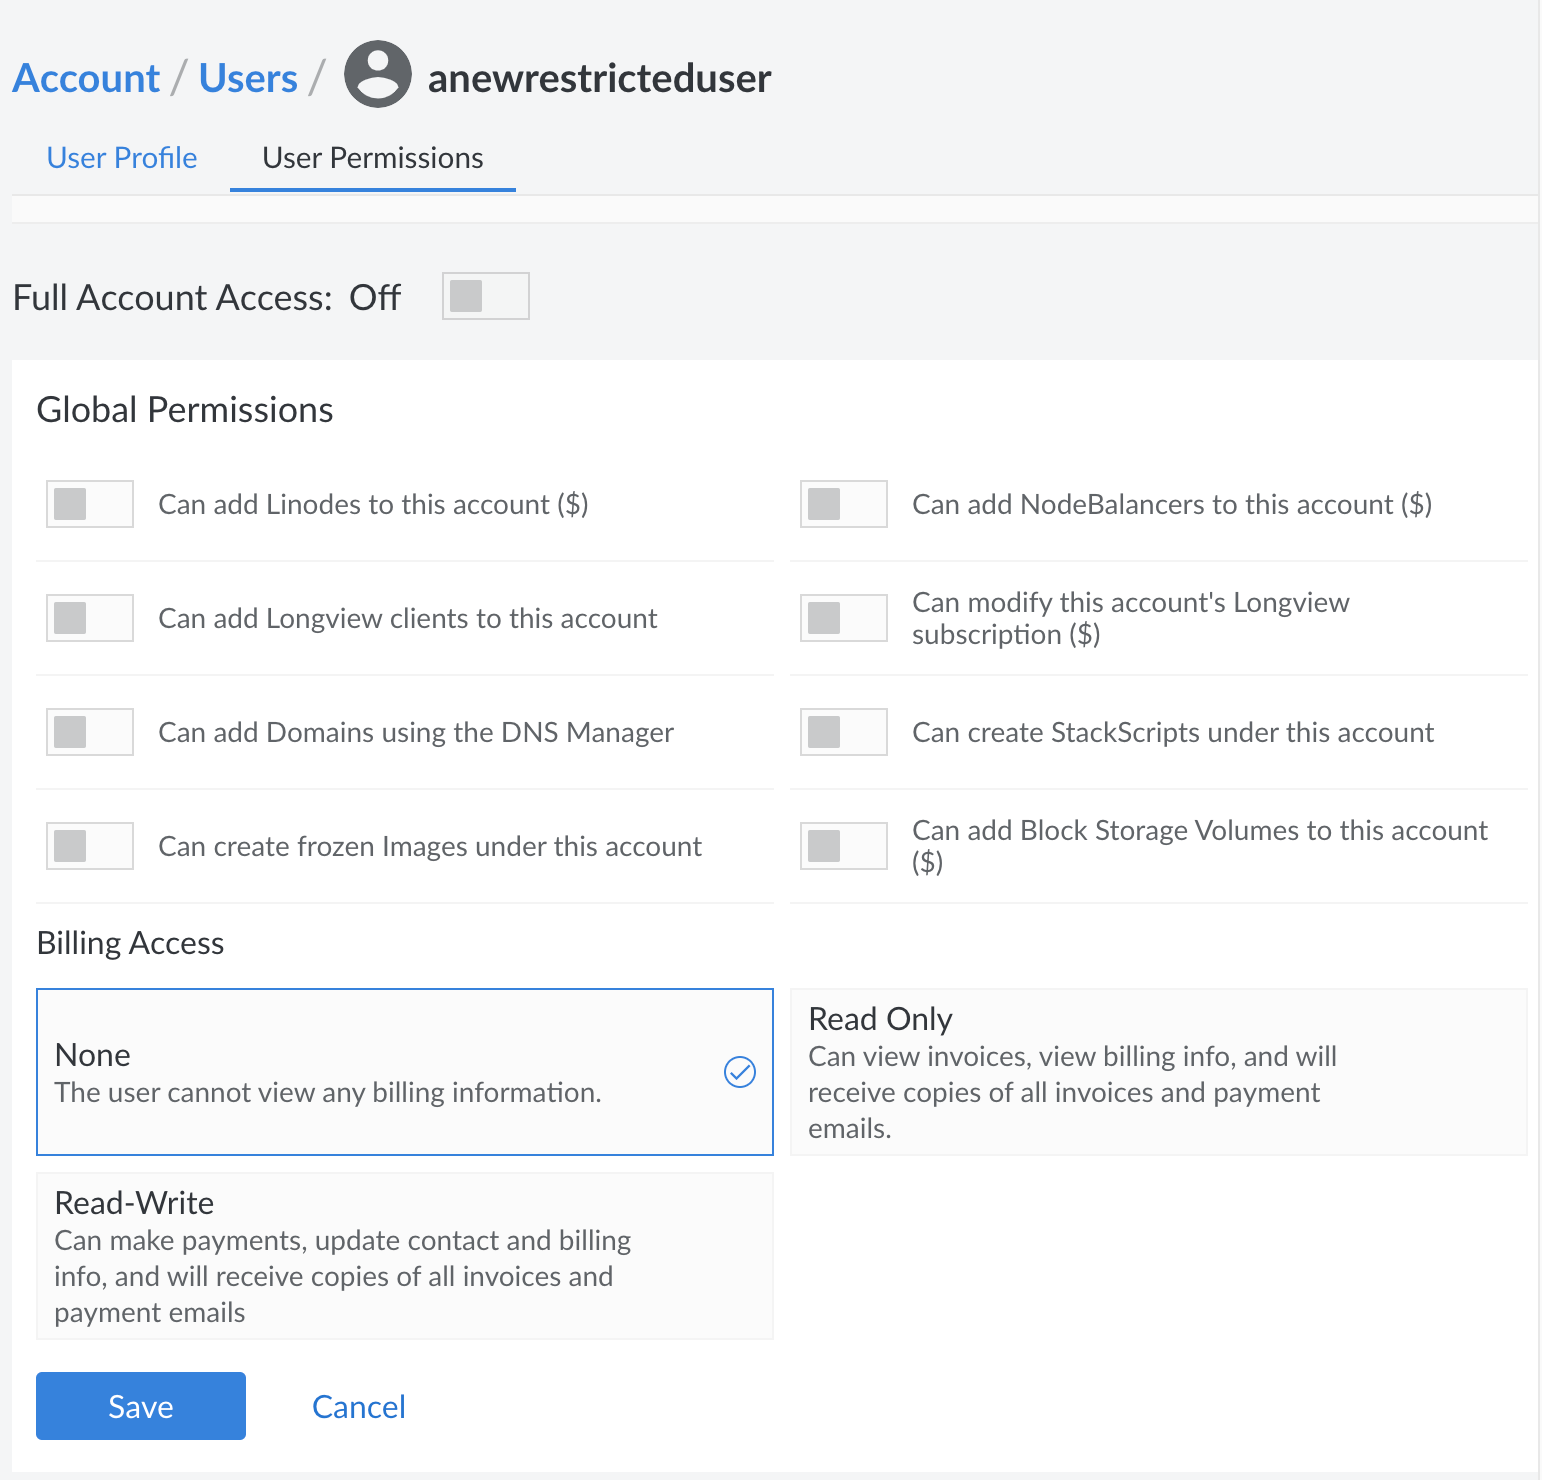
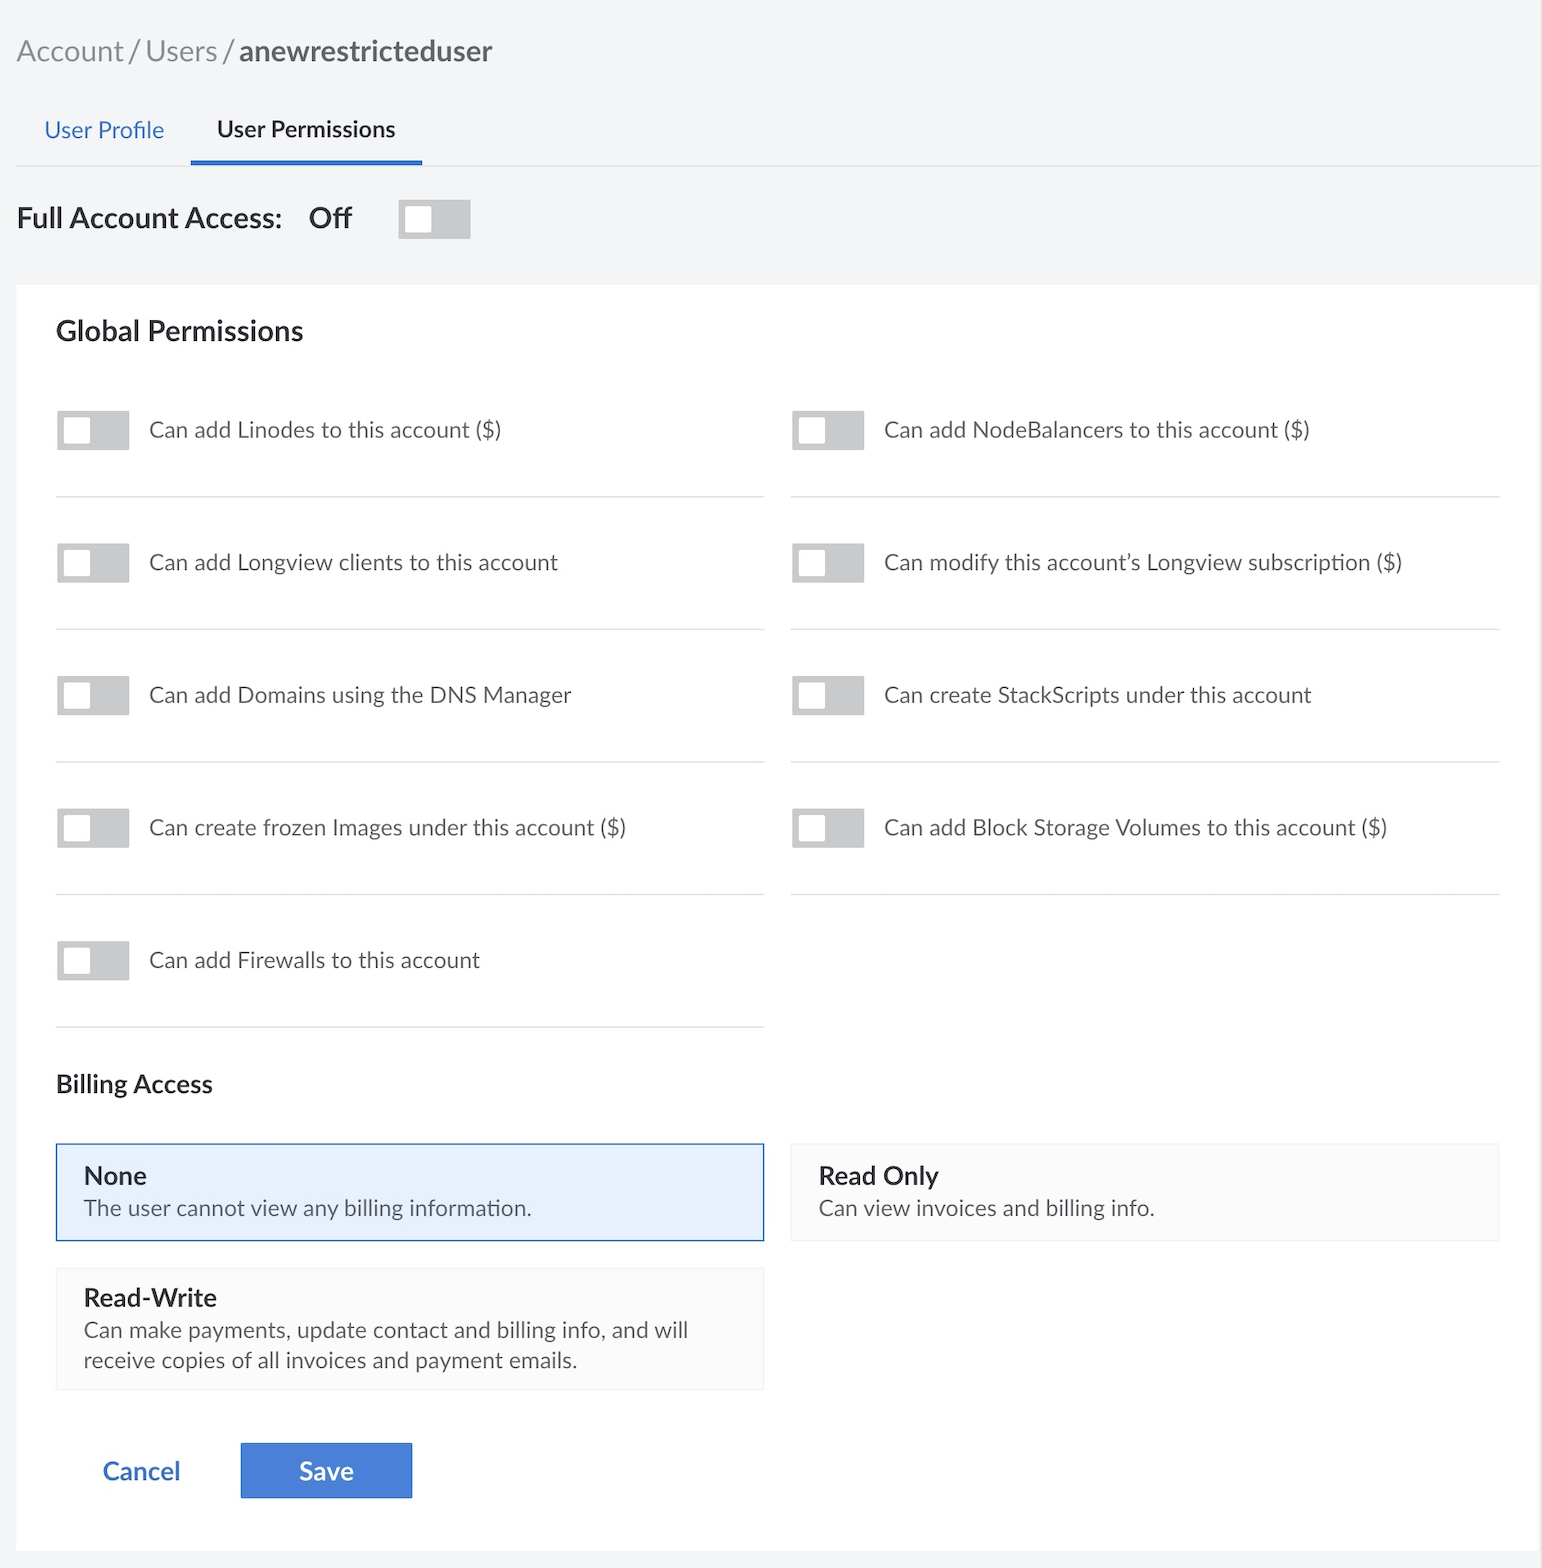
[Update] Accounts and Passwords (#5493)
* Add files via upload

* Adjust Read Only option text

Users with billing access set to Read Only will not receive copies of invoices or payments, as it stated previously.

diff --git a/docs/guides/platform/get-started/accounts-and-passwords/index.md b/docs/guides/platform/get-started/accounts-and-passwords/index.md
@@ -53,7 +53,7 @@ Granting access to settings denoted with a dollar sign ($) allows the user to pe
 1. Select an option for **Billing Access** permissions. These options are as follows:
 
     - **None**: The user is unable to view any billing information. This does not prevent a user from creating billable resources, which are instead applied as **Global Permissions** in the previous step.
-    - **Read Only**: The user can [View Billing Info](/docs/guides/manage-billing-in-cloud-manager/#accessing-billing-information), receive copies of all invoices, and receive emails related to payments.
+    - **Read Only**: The user can [View Invoices](https://www.linode.com/docs/guides/manage-billing-in-cloud-manager/#viewing-invoices-and-payments) and [Billing Info](/docs/guides/manage-billing-in-cloud-manager/#accessing-billing-information).
     - **Read-Write**: The user has full access to [Billing Information](/docs/guides/manage-billing-in-cloud-manager/#accessing-billing-information), can make payments, edit billing information, view billing information, receive copies of all invoices, and receive email related to payments.
 
 1.  Select the appropriate permissions (None, Read Only, or Read-Write) in the **Specific Permissions** section to allow the user to access individual Linodes, StackSripts, Block Storage Volumes, Images, NodeBalancers, and Domains. Unlike Global Permissions, Specific Permissions can apply to individual resources and not the service as a whole. Specific Permission options are as follows:
